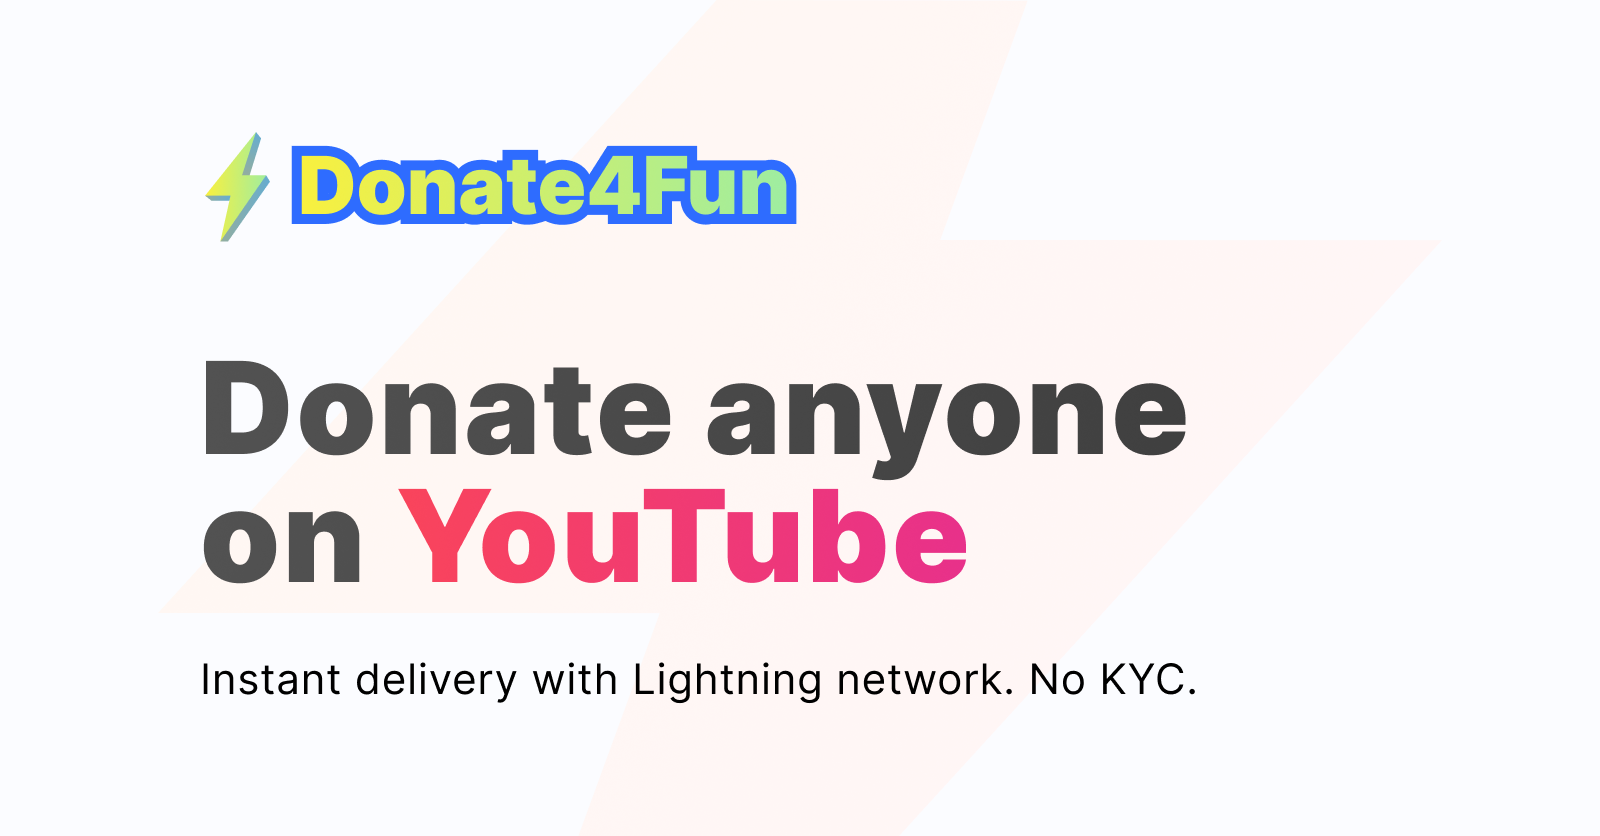
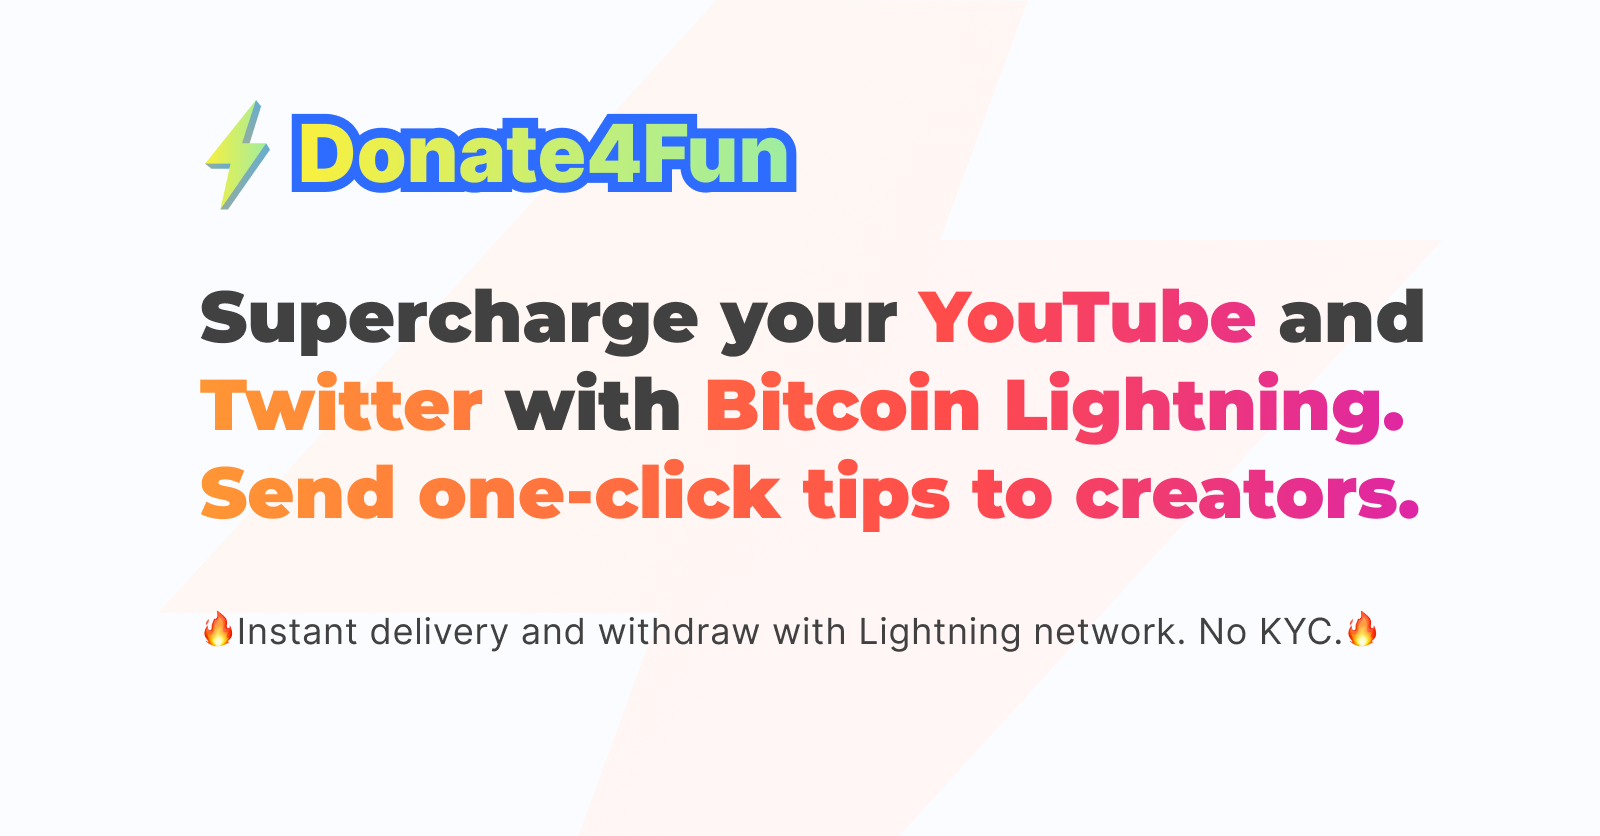
feat(landing): New slogan - add Twitter mention

Changed region(s): [[0.125, 0.3421, 0.9062, 0.8397], [0.125, 0.1244, 0.5, 0.2799]]

diff --git a/frontend/src/routes/Landing.svelte b/frontend/src/routes/Landing.svelte
@@ -81,11 +81,9 @@
       <div class="main-upper-left">
         <div class="main-upper-left-upper">
           <h1>
-            One click instant donations for YouTubers.
-            <span class="gradient extra-light">No extra fees.</span>
-            <span class="gradient dark">
-              Powered by Bitcoin ⚡ Lightning.
-            </span>
+            Supercharge your <span class="gradient new">YouTube</span> and <span class="gradient new">Twitter</span>
+            with <span class="gradient new">Bitcoin Lightning.
+            Send one-click tips to creators.</span>
           </h1>
           <div class="annotation">
             🔥Support creators with Bitcoin Lightning. Easy donations and withdrawals. No registration or KYC.
@@ -272,21 +270,20 @@ h1, h2 {
 .gradient {
   -webkit-text-fill-color: transparent;
   text-fill-color: transparent;
+  background-clip: text !important;
+  -webkit-background-clip: text !important;
 }
 .extra-light {
   background: linear-gradient(90deg, #FF9634 10%, #FF4D00 90%);
-  background-clip: text;
-  -webkit-background-clip: text;
 }
 .light {
   background: linear-gradient(89.59deg, #FF9634 27.11%, #DC24A9 92.47%);
-  background-clip: text;
-  -webkit-background-clip: text;
 }
 .dark {
   background: linear-gradient(90deg, #FF4B4B 0%, #DC24A9 100%);
-  background-clip: text;
-  -webkit-background-clip: text;
+}
+.new {
+  background: linear-gradient(90deg, #FF9634 0%, #FF4B4B 60.94%, #DC24A9 100%), #414141;
 }
 .main-upper {
   display: flex;

diff --git a/donate4fun/web.py b/donate4fun/web.py
@@ -56,6 +56,10 @@ def target_name(donation: Donation) -> str:
         raise ValueError("donation has no target")
 
 
+def default_sharing_image():
+    return '/static/sharing.png?v=2'
+
+
 @app.get("/youtube/{object_id}")
 @app.get("/twitter/{object_id}")
 @app.get("/donation/{object_id}")
@@ -65,7 +69,7 @@ async def index(request: Request, object_id: UUID | None = None, full_path: str 
         og_image_path = f'/preview/{object_type}/{object_id}'
     else:
         object_type = None
-        og_image_path = '/static/sharing.png'
+        og_image_path = default_sharing_image()
     manifest = await fetch_manifest() if settings.release else None
     if object_type == 'donation':
         async with db.session() as db_session:
@@ -166,7 +170,7 @@ def TemplateResponse(name, *args, status_code=200, **kwargs) -> HTMLResponse:
 # This route should be last declared
 @app.get("/{full_path:path}")
 async def default_index(request: Request, full_path: str):
-    og_image_path = '/static/sharing.png'
+    og_image_path = default_sharing_image()
     manifest = await fetch_manifest() if settings.release else None
     description = "Donate to creators with Bitcoin Lightning"
     return TemplateResponse(
